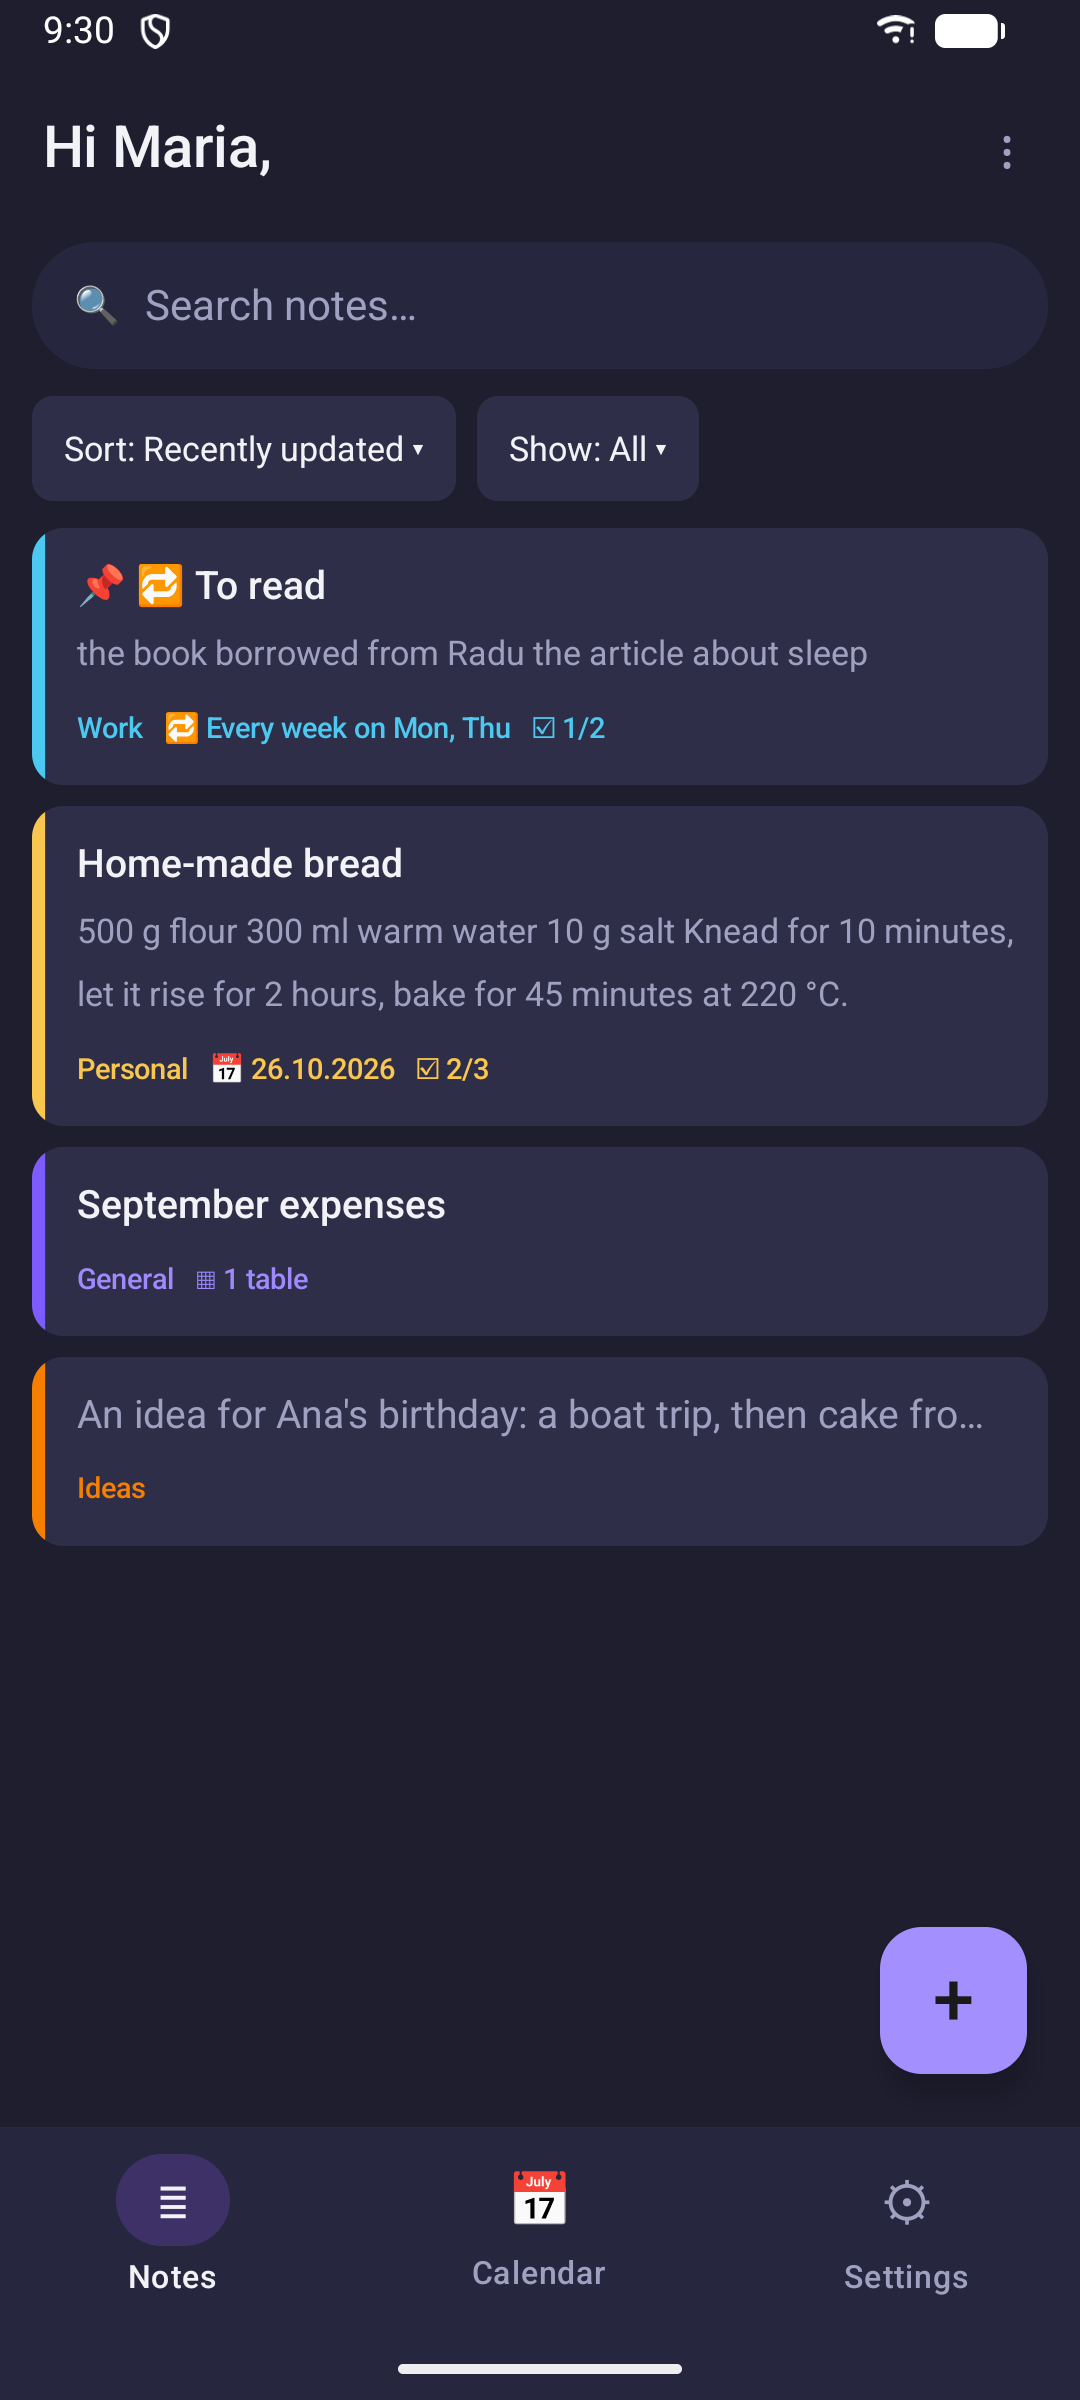
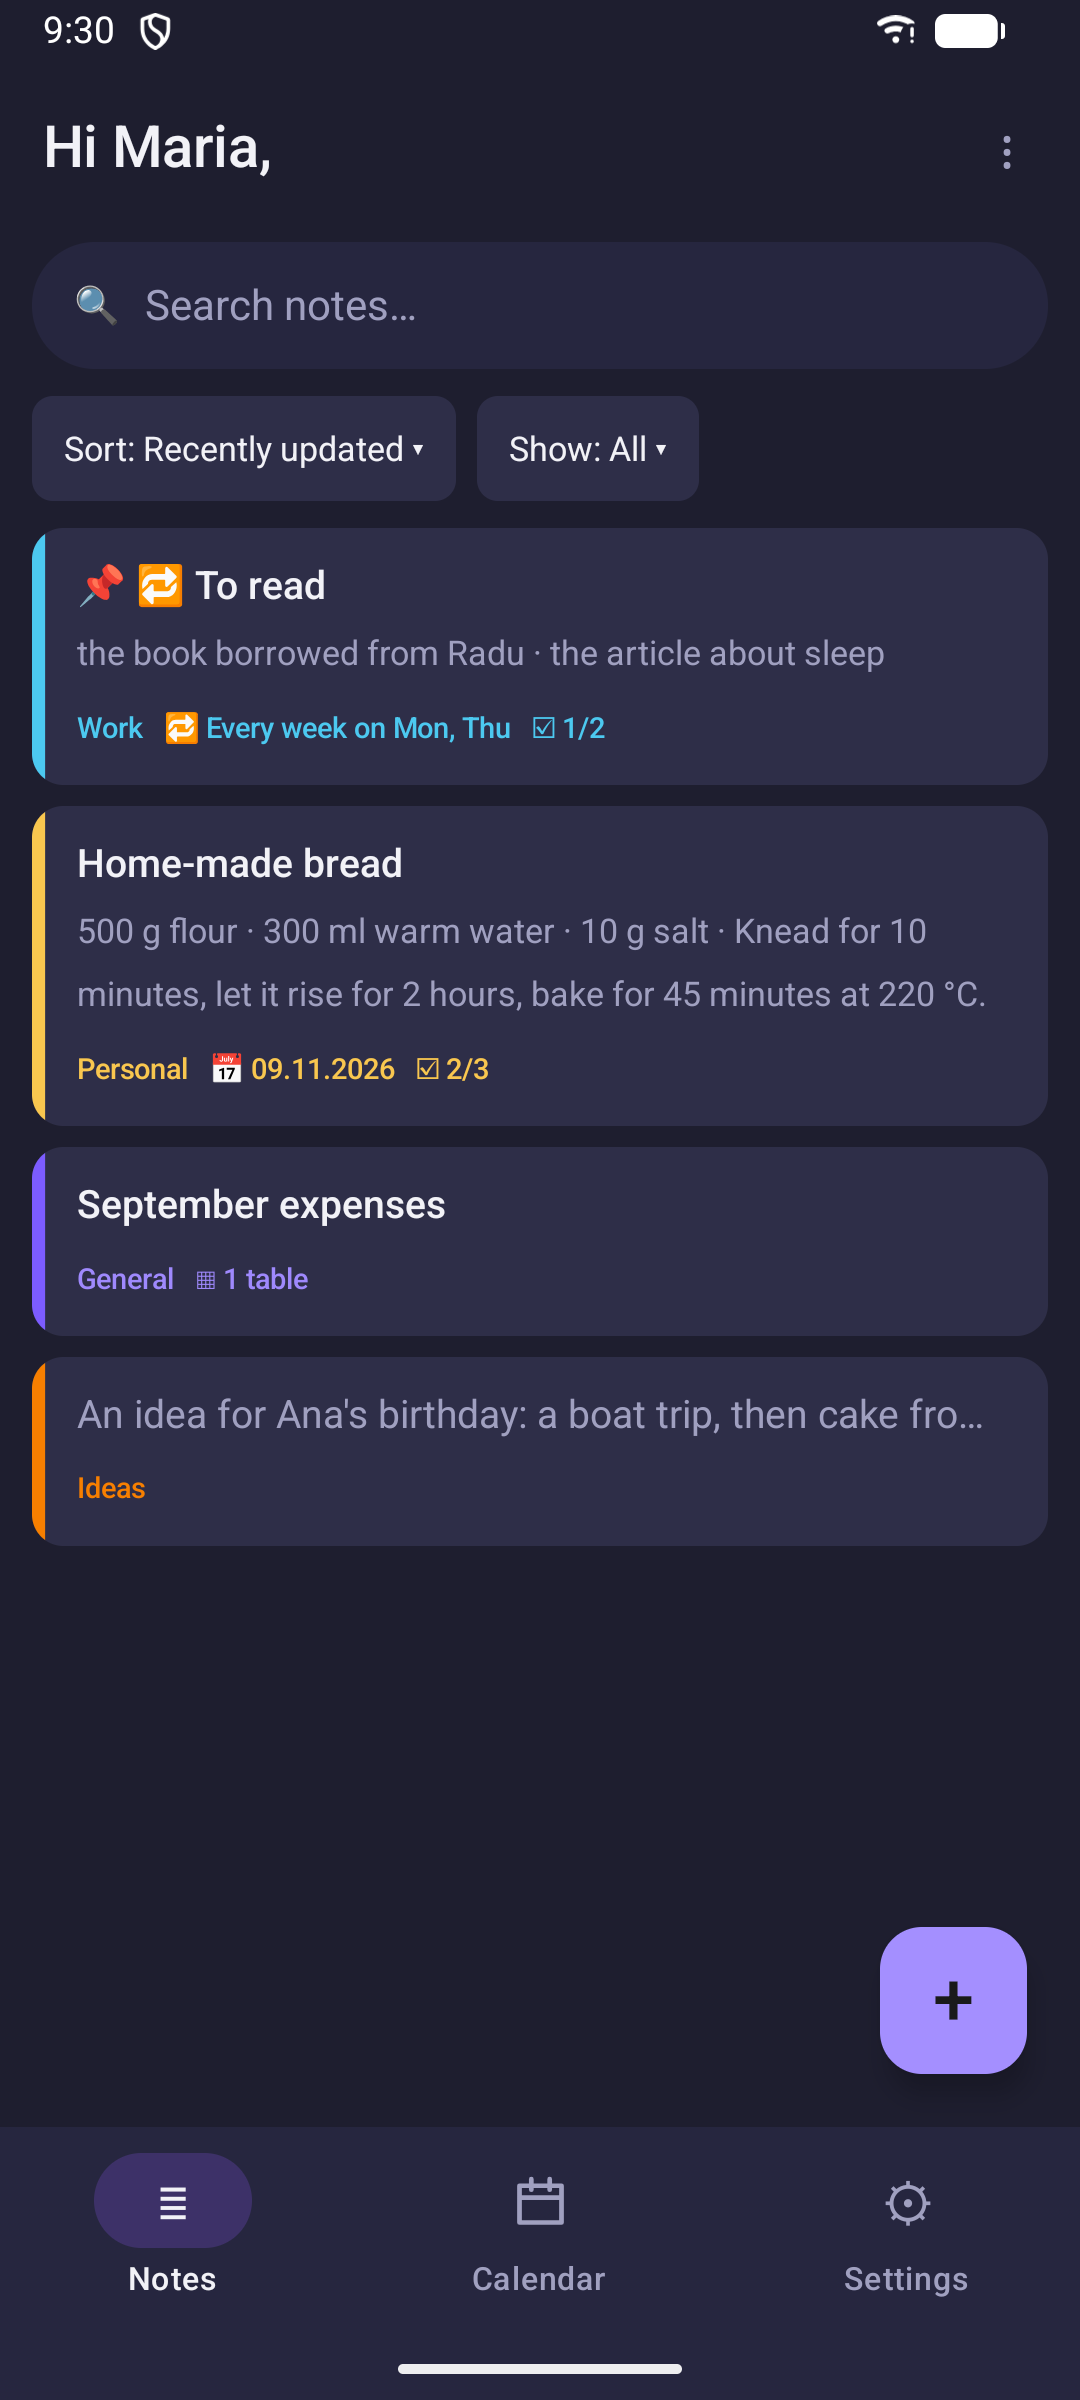
notes list: the three tab marks share one box, and the screenshots retaken
The first photographs of the drawn Calendar mark showed its label a few
pixels above Notes and Settings: a 20 sp glyph's line is taller than the
24 dp drawing, and NavigationBarItem sets the label under its icon. All
three marks now sit in one 28 dp box (TabMark); the retaken pictures show
the three labels on one line.

tools/emulator/take_screenshots.py retook the whole set, light and dark:
the Calendar tab drawn in lines, the cards' snippets with " · " between
lines, Appearance's "used last". Looked at: 01-note-list (light, before
and after the box), 07-calendar-dark. The off_schedule walk part, with the
series' new words, passed on the first build.

Checked: Gradle (every unit test; debug and release builds), every gate.

diff --git a/app/src/main/java/ro/noteorganizer/app/MainActivity.kt b/app/src/main/java/ro/noteorganizer/app/MainActivity.kt
@@ -637,11 +637,15 @@ private val TABS = listOf(
 /**
  * A tab's mark, in the tab's colour. The calendar's is drawn in lines: its
  * glyph, 📅, is a coloured emoji that reads "July 17" beside two plain marks.
+ * All three in one box: a glyph's line is taller than the drawing, and the
+ * Calendar label sat higher than the other two.
  */
 @Composable
 private fun TabMark(tab: Tab, glyph: String) {
-    if (tab == Tab.CALENDAR) Icon(CALENDAR_MARK, contentDescription = null, modifier = Modifier.size(24.dp))
-    else Text(glyph, fontSize = 20.sp)
+    Box(Modifier.size(28.dp), contentAlignment = Alignment.Center) {
+        if (tab == Tab.CALENDAR) Icon(CALENDAR_MARK, contentDescription = null, modifier = Modifier.size(24.dp))
+        else Text(glyph, fontSize = 20.sp)
+    }
 }
 
 /** A calendar page in lines: its frame, the band at its top, two rings. */
